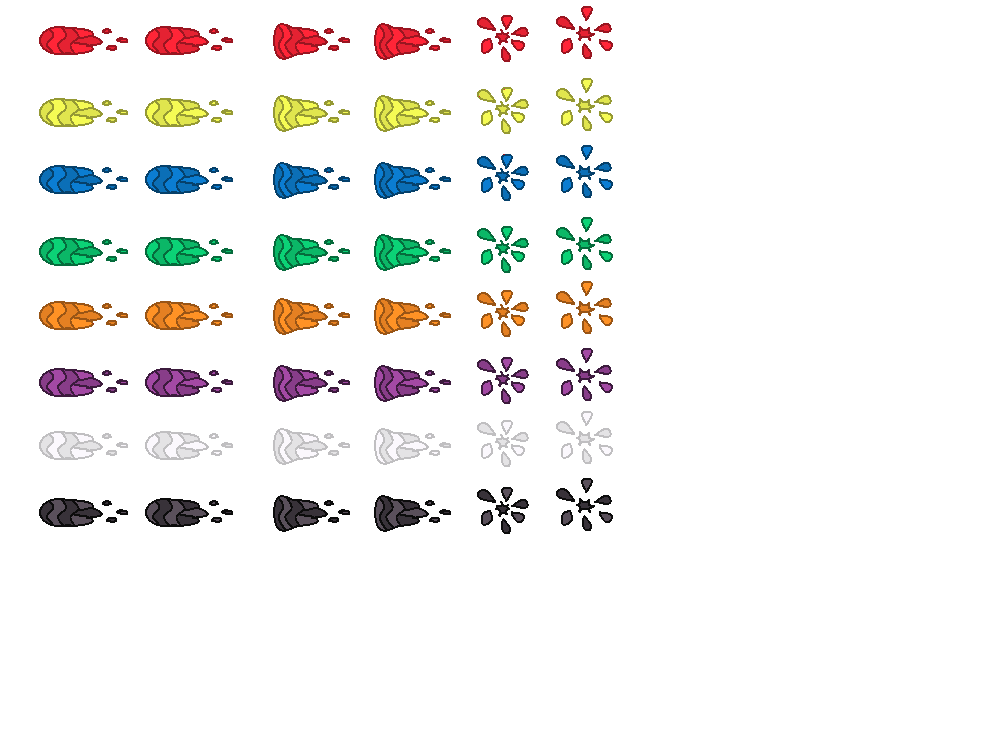
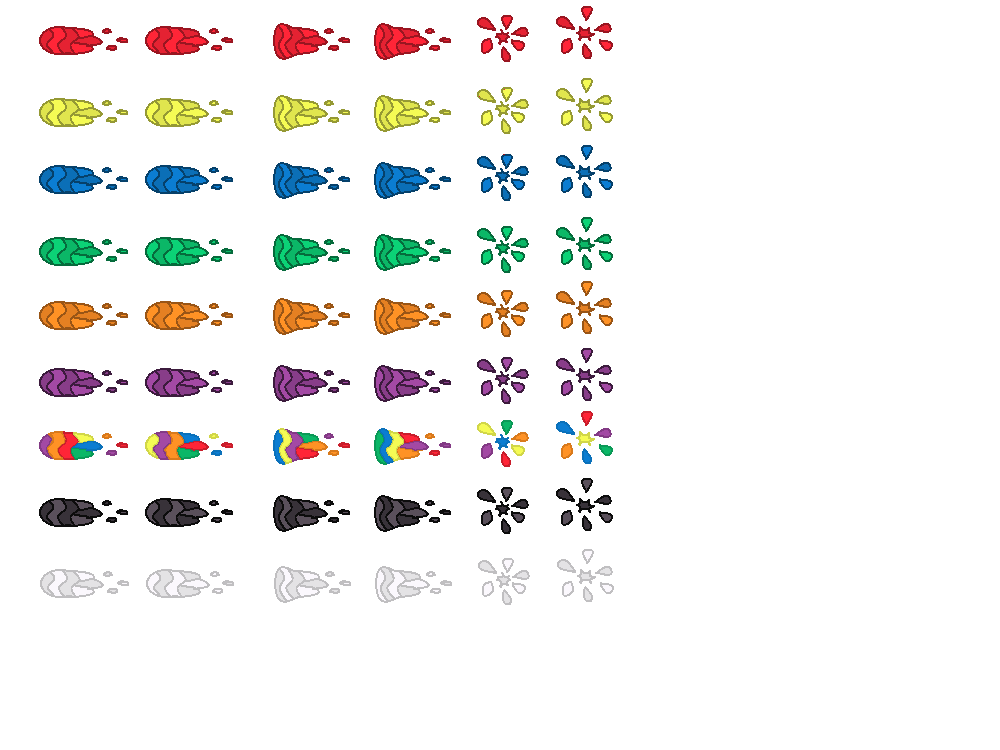
reducido el número de enemigos del último nivel, añadido sprite de disparo multicolor, aumentada la velocidad de la bala

diff --git a/scripts/Circulo.cs b/scripts/Circulo.cs
@@ -7,7 +7,7 @@ public partial class Circulo : CharacterBody2D
 	
 	[Export] public bool esJefe = false;
 
-	private String colorEscrito=""; 
+	public String colorEscrito=""; 
 	
 	private const float RETROCESO_BALA=10;
 	private const float RETROCESO_CHOQUE=100;
@@ -27,31 +27,14 @@ public partial class Circulo : CharacterBody2D
 		// Obtener el nodo Sprite2D
 		sprite = GetNode<AnimatedSprite2D>("Circulo");
 
-		switch(color){
-			case 0:
-				colorEscrito="red";
-				break;
-			case 1:
-				colorEscrito="orange";
-				break;
-			case 2:
-				colorEscrito="yellow";
-				break;
-			case 3:
-				colorEscrito="green";
-				break;
-			case 4:
-				colorEscrito="blue";
-				break;
-			default:
-				colorEscrito="purple";
-				break;
-		}
-
 		originalPos = GlobalPosition;
 		
 		var area = GetNode<Area2D>("DamageArea");
 		area.BodyEntered += OnBodyEntered;
+		
+		if (esJefe){
+			volverJefe();
+		}
 	}
 
 	public void OnHitByBullet(Node bullet, Player player){
@@ -64,7 +47,6 @@ public partial class Circulo : CharacterBody2D
 			}
 			else{
 				isDying = true; // Activamos estado de muerte
-				player.cambiarColor(false);
 				sprite.Play("demonio_" + colorEscrito + "_death");
 				//sprite.AnimationFinished += () => QueueFree();
 				sprite.AnimationFinished += () => {
@@ -88,7 +70,7 @@ public partial class Circulo : CharacterBody2D
 	private void OnBodyEntered(Node body){
 
 			if (body is Player jugador){
-				//GD.Print("Jugador tocado por enemigo");
+				GD.Print("Jugador tocado por enemigo "+colorEscrito);
 				if(isDying==true){
 					return;
 				}
@@ -106,15 +88,11 @@ public partial class Circulo : CharacterBody2D
 		if (isDying)
 			return;
 
-		string[] colores = { "red", "orange", "yellow", "green", "blue", "purple", "negro" };
-		
-		colorEscrito=colores[color];
-
 		// Vector dirección hacia el jugador
 		Vector2 direction = (player.Position - Position).Normalized();
 		
 		Vector2 separation = Vector2.Zero;
-		float minDistance = 20f; // Distancia mínima entre enemigos
+		float minDistance = 40f; // Distancia mínima entre enemigos
 
 		foreach (Node other in GetParent().GetChildren()){
 			if (other is Circulo otro && otro != this && !otro.isDying){
@@ -166,20 +144,19 @@ public partial class Circulo : CharacterBody2D
 	}
 	
 	public void volverJefe(){
-		this.VELOCIDAD*=2;
-		this.color=6;
+		this.VELOCIDAD/=1.5f;
+
+		
+		GD.Print("el jefe ahora es negro y color"+this.color);
 		
 		// Triplicar el tamaño del sprite
 		this.Scale *= new Vector2(3, 3);
-
+		
 		// Ajustar el tamaño de la hitbox también
 		if (collisionShape2D.Shape is CircleShape2D circle){
-			circle.Radius *= 3;
+			//circle.Radius *= 3;
 		}else if (collisionShape2D.Shape is RectangleShape2D rect){
-			rect.Size *= new Vector2(3, 2);
+			//rect.Size *= new Vector2(1, 1);
 		}
-		
-		
-		
 	}
 }

diff --git a/scripts/Player.cs b/scripts/Player.cs
@@ -39,7 +39,7 @@ public partial class Player : CharacterBody2D
 	private const float minY = 10f;
 	private const float maxY = 638f;
 	
-	private float shootCooldown = 0.9f; // tiempo mínimo entre disparos en segundos
+	private float shootCooldown = 0.5f; // tiempo mínimo entre disparos en segundos
 	private Timer shootTimer;
 	
 	//joystick para pantalla táctil
@@ -235,7 +235,7 @@ public partial class Player : CharacterBody2D
 		if (Input.IsActionJustPressed("mouse_left"))
 		{
 			//hay una descompensación chunga entre a donde debe ir la bala y a donde va, y ns de donde sale pero aqui se arregla
-			Shoot(GetGlobalMousePosition() + new Vector2(0, tamanoCursor) - new Vector2(11 * tamanoCursor / 50f, 34 * tamanoCursor / 50f));
+			Shoot(GlobalPosition,GetGlobalMousePosition() + new Vector2(0, tamanoCursor) - new Vector2(11 * tamanoCursor / 50f, 34 * tamanoCursor / 50f), this.color);
 		}
 	}
 	
@@ -244,6 +244,7 @@ public partial class Player : CharacterBody2D
 		if(tocaJefe){
 			color=6;
 			asertarColor();
+			GD.Print("Cambiando color a blanco");
 			return;
 		}
 		
@@ -309,17 +310,17 @@ public partial class Player : CharacterBody2D
 
 	}
 
-	public void Shoot(Vector2 objetivo){
+	public void Shoot(Vector2 origen, Vector2 objetivo, int colorDisparo){
 		
 		if(!shootTimer.IsStopped()){ return; }
 		
-		Vector2 direction = (objetivo - GlobalPosition).Normalized();
+		Vector2 direction = (objetivo - origen).Normalized();
 
 		// Instanciar bala
 		Bullet bullet = (Bullet)BulletScene.Instantiate();
-		bullet.Position = GlobalPosition;
+		bullet.Position = origen;
 		bullet.Velocity = direction;
-		bullet.color=this.color;
+		bullet.color=colorDisparo;
 		bullet.player=this;
 
 		// Añadir al árbol
@@ -393,6 +394,13 @@ public partial class Player : CharacterBody2D
 		
 		asertarColor();
 	}
-
+	/*
+	public void OnHitByBullet(Node bullet, Player player){
+		//notese que player aquí es null, pq la bala la disparó el jefe
+		if (bullet is Bullet bullet1){
+			//this.takeDamage();
+		}
+	}
+	*/
 
 }

diff --git a/scripts/Mundo5.cs b/scripts/Mundo5.cs
@@ -16,7 +16,7 @@ public partial class Mundo5 : MundoBase
 	// Called when the node enters the scene tree for the first time.
 	public override void _Ready(){
 		
-		nEnemigos=25;
+		nEnemigos=13;
 		
 		hayJefe=true;
 		
@@ -27,33 +27,36 @@ public partial class Mundo5 : MundoBase
 		if(personaje is Player player1){
 			player1.SetNColores(6);
 		}
-		
 		Node Enemigos = GetNode("Enemigos");
+		
+		int ajuste=0;
 
 		foreach (Node child in Enemigos.GetChildren()){
 			if (child is CharacterBody2D enemigo){
 				enemigos.Add(enemigo);
+				
 
 				if(enemigo is Circulo circulo){
 					
-					if(circulo.esJefe){
-						spawnearEnemigo();
-						nEnemigo++;
-						circulo.volverJefe();
-						continue;
-					}
+					
 					
 					circulo.VELOCIDAD*=3.3f;
-					if(nEnemigo%6==1){
+					if((nEnemigo-ajuste)%6==1){
 						circulo.color = 2;
-					}else if(nEnemigo%6==2){
+					}else if((nEnemigo-ajuste)%6==2){
 						circulo.color=0;
-					}else if(nEnemigo%6==3){
+					}else if((nEnemigo-ajuste)%6==3){
 						circulo.color=3;
-					}else if(nEnemigo%6==4){
+					}else if((nEnemigo-ajuste)%6==4){
 						circulo.color=1;
-					}else if(nEnemigo%6==5){
+					}else if((nEnemigo-ajuste)%6==5){
 						circulo.color=5;
+					}
+					
+					if(circulo.esJefe){
+						ajuste++;
+						circulo.color=6;
+						circulo.VELOCIDAD/=3.3f;
 					}
 				}
 
@@ -61,6 +64,8 @@ public partial class Mundo5 : MundoBase
 				nEnemigo++;
 			}
 		}
+		
+		//nEnemigos-=ajuste;
 		
 	}
 	

diff --git a/scripts/Bullet.cs b/scripts/Bullet.cs
@@ -29,7 +29,7 @@ public partial class Bullet : Area2D
 		
 		collisionShape = GetNode<CollisionShape2D>("CollisionShape2D");
 		
-		string[] colores={"red", "orange", "yellow", "green", "blue", "purple", "red"};
+		string[] colores={"red", "orange", "yellow", "green", "blue", "purple", "white"};
 	
 		default_="default_"+colores[color];
 		hit="hit_"+colores[color];
@@ -84,17 +84,21 @@ private void OnBodyEntered(Node body)
 
 		// Reproducir animación de impacto
 		sprite.Play(hit);
+		
+		if (enemyHit != null && enemyHit.HasMethod("OnHitByBullet"))
+		{
+			enemyHit.Call("OnHitByBullet", this, player);
+		}
+		
+		if(player!=null){
+			player.cambiarColor(false);
+		}
 	}
 }
 
 	
 private void _OnAnimationFinished()
 	{
-		if (enemyHit != null && enemyHit.HasMethod("OnHitByBullet"))
-		{
-			enemyHit.Call("OnHitByBullet", this, player);
-		}
-
 	QueueFree(); // Destruye la bala al terminar la animación
 }
 

diff --git a/scripts/MundoBase.cs b/scripts/MundoBase.cs
@@ -39,6 +39,13 @@ public abstract partial class MundoBase : Node2D
 		Circulo miCirculo = (Circulo)enemigos[nEnemigo];
 		
 		miCirculo.player=player;
+		
+		string[] colores = { "red", "orange", "yellow", "green", "blue", "purple", "negro" };
+		
+		miCirculo.colorEscrito=colores[miCirculo.color];
+		if(miCirculo.esJefe){
+			GD.Print("Asignado el color del jefe a "+miCirculo.colorEscrito);
+		}
 
 	}
 }

diff --git a/scripts/HUD.cs b/scripts/HUD.cs
@@ -70,7 +70,7 @@ public override void _Ready()
 				else
 				{
 					// toque fuera del joystick → disparo
-					player.Shoot(touch.Position);
+					player.Shoot(player.GlobalPosition, touch.Position, player.color);
 				}
 			}
 			else if (joystickActive && touch.Index == activeTouchId)
